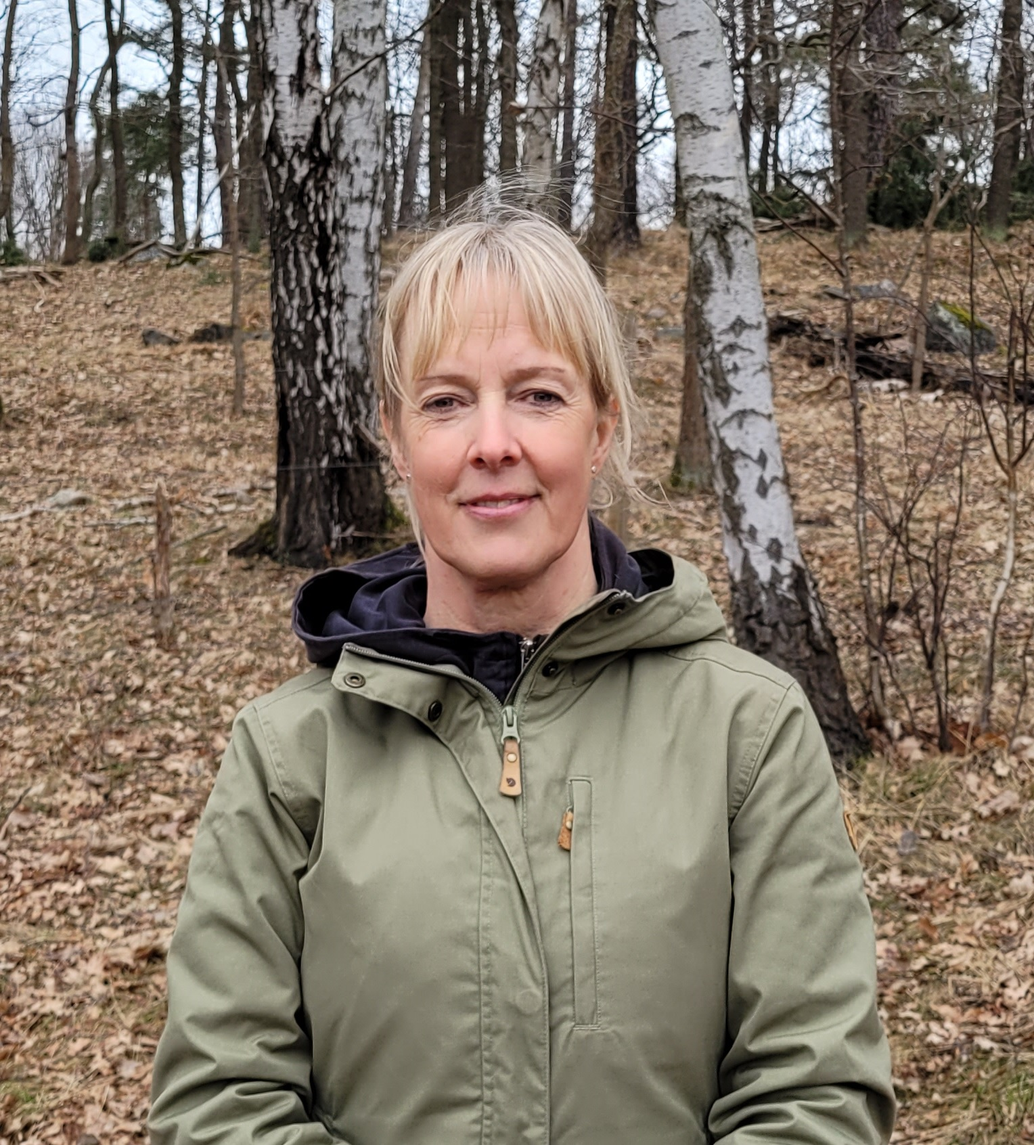
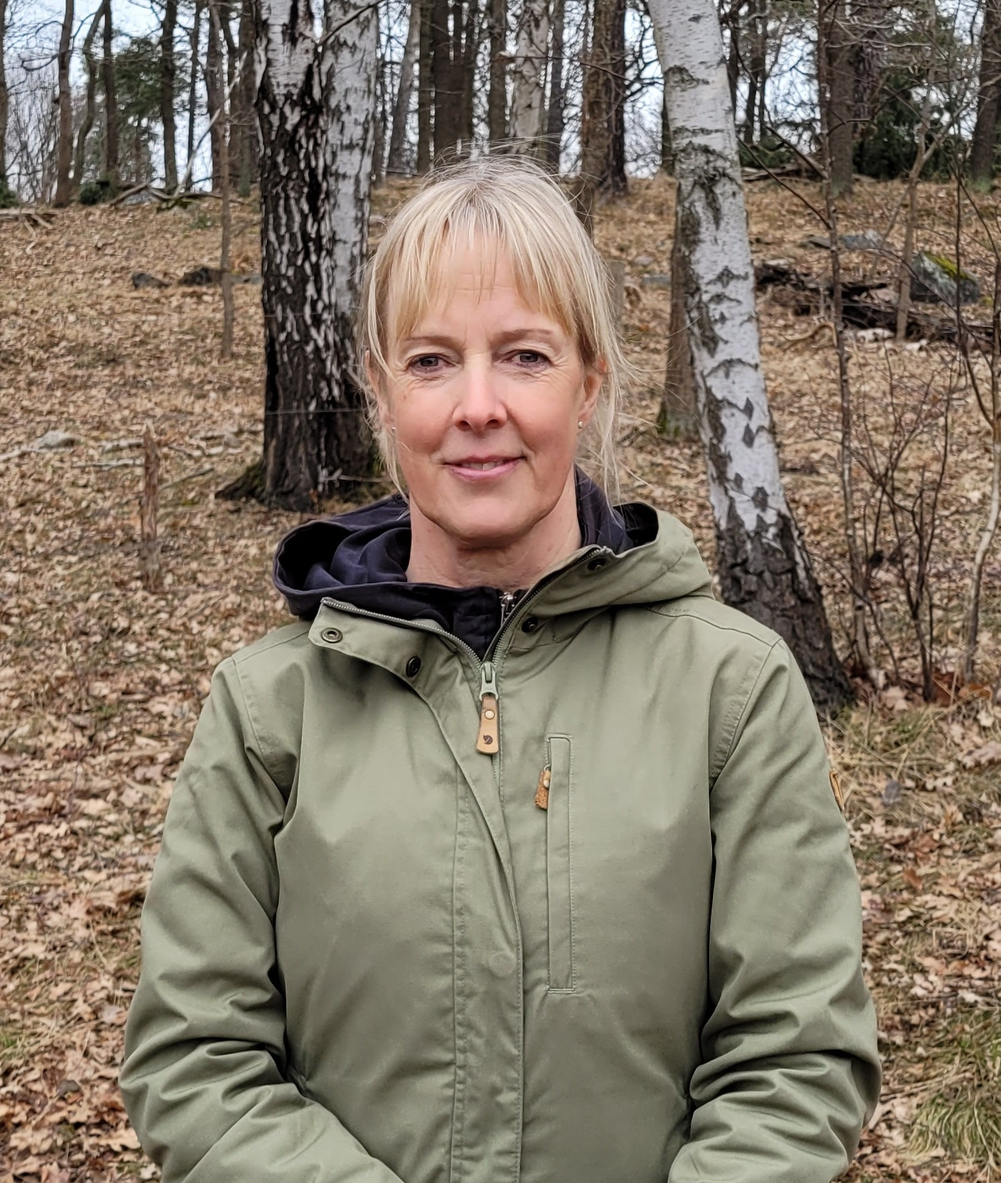
Updates to front page

diff --git a/index.md b/index.md
@@ -9,7 +9,7 @@ Our lab conducts research using fungi as model systems to explore fundamental ev
 
 {% include section.html full=true %}
 
-{% include figure.html image="images/JohannessonLab_logo.png" width="35%" %}
+{% include figure.html image="images/team.jpg" width="45%" %}
 
 {% include section.html %}
 
@@ -51,12 +51,18 @@ Our talented team members come from a diverse background and share a deep intere
 
 {%
   include feature.html
-  image="images/team.jpg"
+  image="images/team_jump.jpg"
   link="team"
   title="Our Team"
   flip=true
   text=text
 %}
+
+{% include section.html full=true %}
+
+{% include figure.html image="images/JohannessonLab_logo.png" width="15%" %}
+
+{% include section.html %}
 
 <!---
 {% capture text %}
